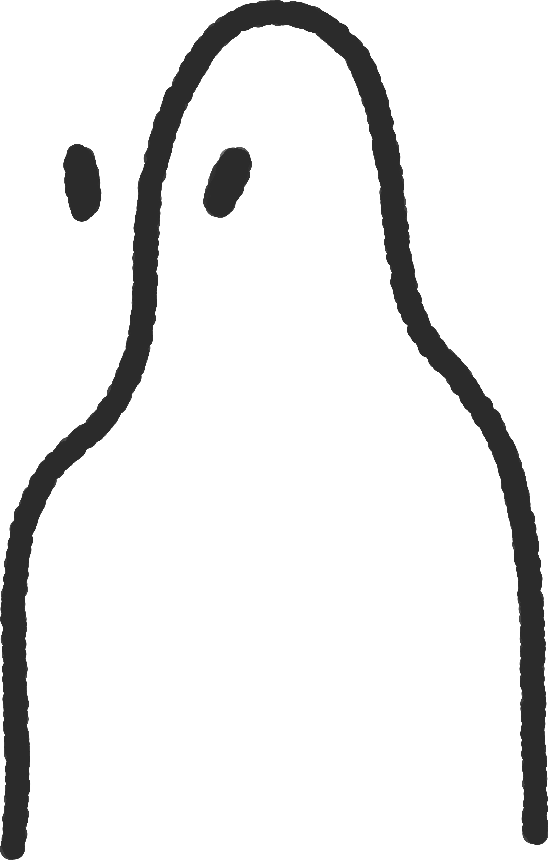
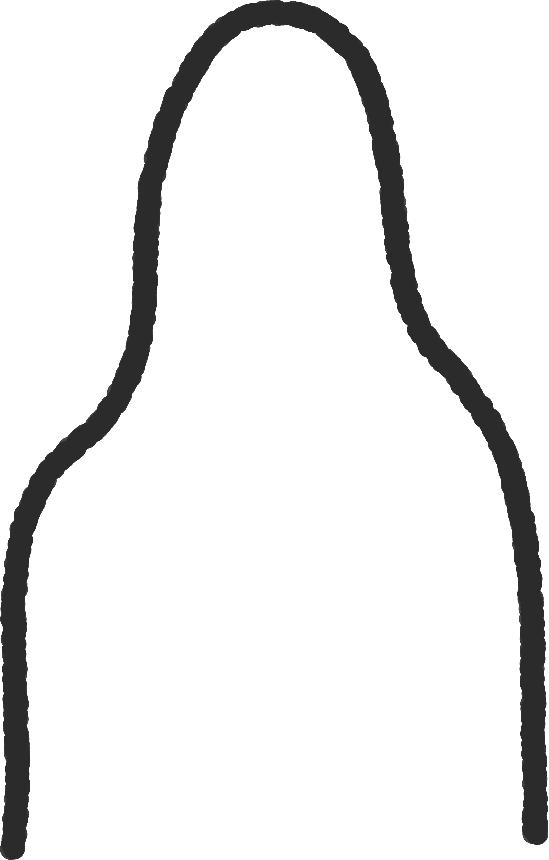
Add googly eyes

Changed region(s): [[0.3716, 0.1512, 0.4645, 0.2721], [0.0929, 0.1512, 0.1858, 0.2721]]

diff --git a/assets/js/main.js b/assets/js/main.js
@@ -32,11 +32,11 @@ document.querySelectorAll('a[href^="#"]').forEach((anchor) => {
 });
 
 // Keep track of active article
-let activeArticle;
-
+let activeArticle = document.querySelector("#Welcome");
 const updateActiveArticle = (article) => {
   if (activeArticle == article) return;
 
+  activeArticle = article;
   const activeId = article.getAttribute("id");
   const color = article.getAttribute("data-color");
 
@@ -51,6 +51,11 @@ const updateActiveArticle = (article) => {
   activeNav.firstChild.style.borderColor = COLORS[color];
 };
 
+// Draw box around link on page load; kinda hacky
+document.querySelector(`a[href^="#Welcome"]`).firstChild.style.borderColor =
+  COLORS["yellow"];
+
+// Update active article on scroll
 let lastPosition = 0;
 main.addEventListener("scroll", (e) => {
   const position = main.scrollTop;
@@ -73,4 +78,38 @@ main.addEventListener("scroll", (e) => {
 
   lastPosition = position <= 0 ? 0 : position;
 });
+
 //#endregion Navigation
+
+//-----------------------------
+//#region Drawings Animation
+//-----------------------------
+// Make portraits tilt toward mouse
+// Code from https://www.armandocanals.com/posts/CSS-transform-rotating-a-3D-object-perspective-based-on-mouse-position.html
+const constraint = 20;
+
+const transforms = (x, y, elem) => {
+  const box = elem.getBoundingClientRect();
+  const cX = -(y - box.y - box.height / 2) / constraint;
+  const cY = (x - box.x - box.width / 2) / constraint;
+
+  return `perspective(400px) rotateX(${cX}deg) rotateY(${cY}deg)`;
+};
+
+const transformElement = (elem, xyelem) => {
+  elem.style.transform = transforms.apply(null, xyelem);
+};
+
+main.addEventListener("mousemove", (e) => {
+  const activePortrait = document.querySelector(
+    `#${activeArticle.id} .Eyes`
+  );
+  const xy = [e.clientX, e.clientY];
+  const position = xy.concat([activePortrait]);
+
+  window.requestAnimationFrame(() => {
+    transformElement(activePortrait, position);
+  });
+});
+
+//#endregion Drawings Animation

diff --git a/index.html b/index.html
@@ -12,6 +12,10 @@ title: Lester Lee
       src="{{site.baseurl}}/assets/img/portraits/yellow-bubble.png"
     />
     <img
+      class="Eyes"
+      src="{{site.baseurl}}/assets/img/portraits/yellow-eyes.png"
+    />
+    <img
       class="Portrait"
       src="{{site.baseurl}}/assets/img/portraits/yellow.png"
     />
@@ -32,6 +36,10 @@ title: Lester Lee
     <img
       class="Speech"
       src="{{site.baseurl}}/assets/img/portraits/black-bubble.png"
+    />
+    <img
+      class="Eyes"
+      src="{{site.baseurl}}/assets/img/portraits/black-eyes.png"
     />
     <img
       class="Portrait"
@@ -63,6 +71,10 @@ title: Lester Lee
     <img
       class="Speech"
       src="{{site.baseurl}}/assets/img/portraits/white-bubble.png"
+    />
+    <img
+      class="Eyes"
+      src="{{site.baseurl}}/assets/img/portraits/white-eyes.png"
     />
     <img
       class="Portrait"
@@ -98,6 +110,10 @@ title: Lester Lee
       src="{{site.baseurl}}/assets/img/portraits/blue-bubble.png"
     />
     <img
+      class="Eyes"
+      src="{{site.baseurl}}/assets/img/portraits/blue-eyes.png"
+    />
+    <img
       class="Portrait"
       src="{{site.baseurl}}/assets/img/portraits/blue.png"
     />
@@ -114,6 +130,10 @@ title: Lester Lee
     <img
       class="Speech"
       src="{{site.baseurl}}/assets/img/portraits/red-bubble.png"
+    />
+    <img
+      class="Eyes"
+      src="{{site.baseurl}}/assets/img/portraits/red-eyes.png"
     />
     <img class="Portrait" src="{{site.baseurl}}/assets/img/portraits/red.png" />
   </div>

diff --git a/assets/css/_index.scss b/assets/css/_index.scss
@@ -80,4 +80,10 @@ article {
   z-index: 1;
 }
 
+.Eyes {
+  position: absolute;
+  top: 25vh;
+  right: 23vw;
+  z-index: 1;
+}
 /*#endregion Drawings */
